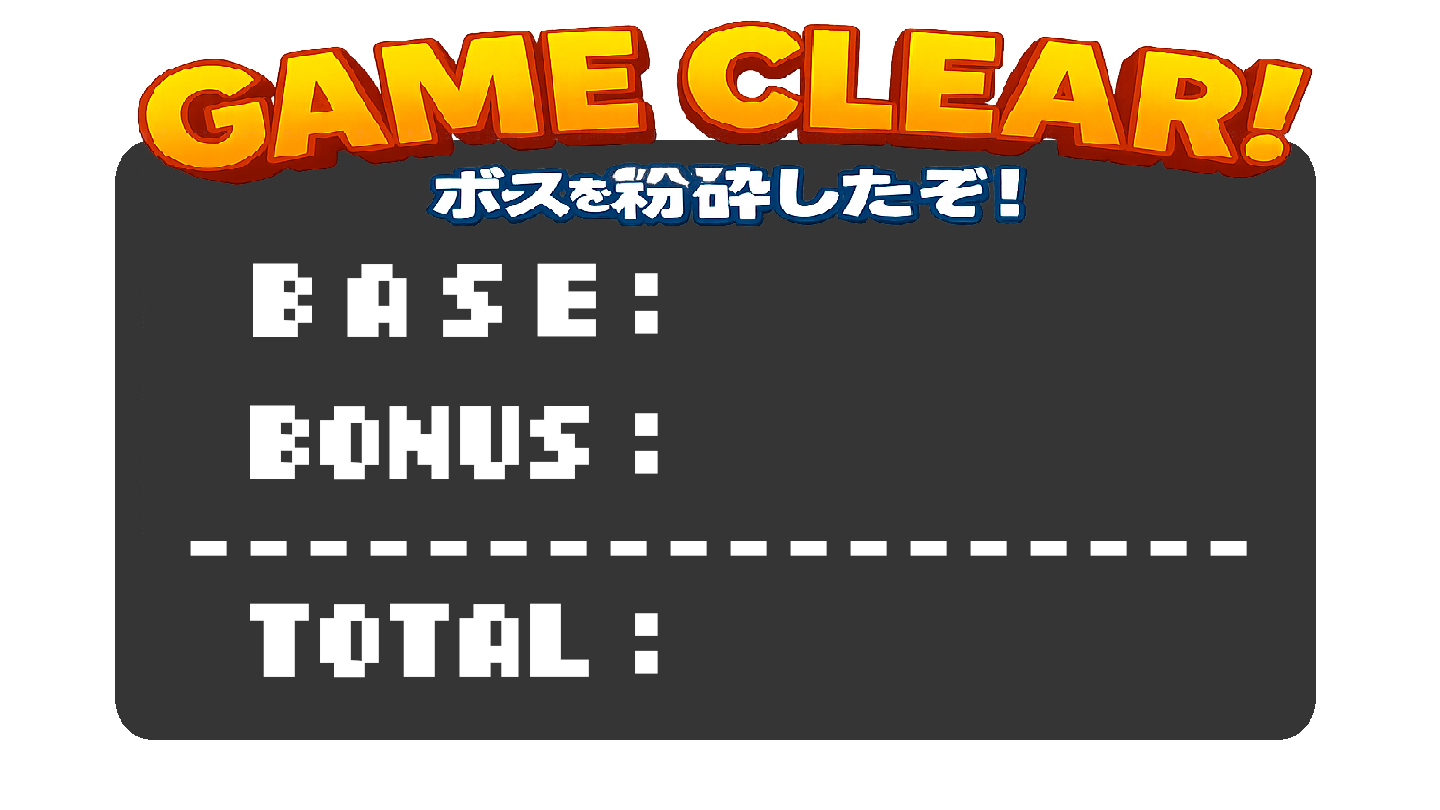
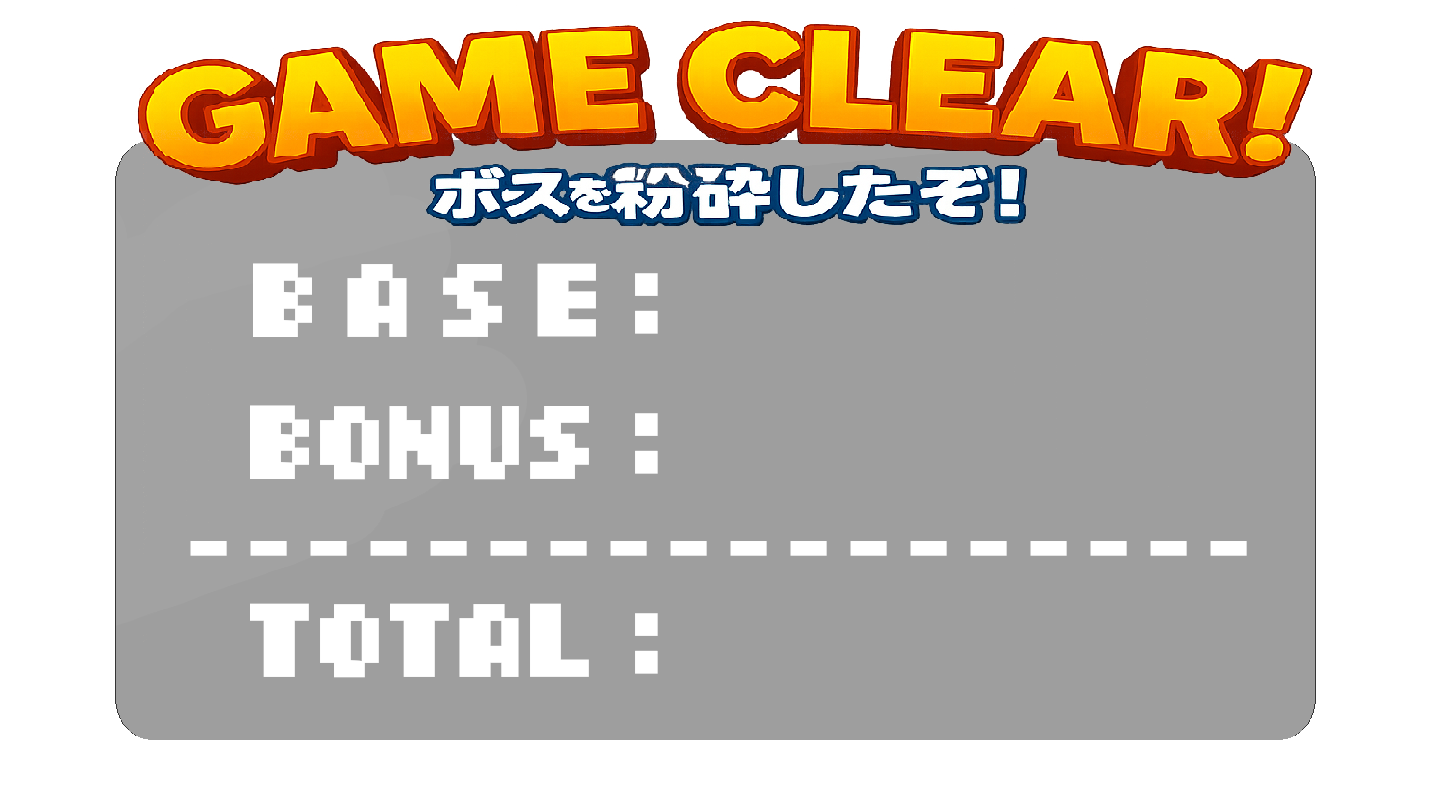
プレイヤーの操作性向上

diff --git a/Project/Src/Object/Charactor/Player/Gouge/PlayerGouge.cpp b/Project/Src/Object/Charactor/Player/Gouge/PlayerGouge.cpp
@@ -46,7 +46,7 @@ void PlayerGouge::SubUpdate(void)
 	case PlayerGouge::STATE::SEARCH:
 		if (searchHit_) { return; }
 		xAngle_ += Utility::Deg2RadF(5.0f);
-		if (xAngle_ > Utility::Deg2RadF(200.0f)) { xAngle_ = Utility::Deg2RadF(200.0f); }
+		if (xAngle_ > Utility::Deg2RadF(100.0f)) { xAngle_ = Utility::Deg2RadF(100.0f); }
 		else {
 			trans_.pos = (playerPos + FOOT_POS) + LOCAL_POS.TransMat(Utility::MatrixAllMultXYZ({ Vector3::Xonly(xAngle_) , playerAngle }));
 		}
@@ -54,7 +54,7 @@ void PlayerGouge::SubUpdate(void)
 	case PlayerGouge::STATE::GOUGE:
 		if(gougeHit_){
 			SetJudge(false);
-			//SetIsDraw(false);
+			SetIsDraw(false);
 			state_ = STATE::NON;
 		}
 		break;

diff --git a/Project/Src/Object/Charactor/Boss/Attack/Fall/Fall.cpp b/Project/Src/Object/Charactor/Boss/Attack/Fall/Fall.cpp
@@ -91,13 +91,13 @@ void Fall::Set(const Vector3& pos)
 	groundHeight_ = 0.0f;
 
 	Vector3 work = trans_.pos;
-	work.y = 500.0f;
+	work.y = 1500.0f;
 
 	float radius = ColliderSerch<SphereCollider>().back()->GetRadius();
 
 	while (work.y > 0.0f) {
 		if (CollisionManager::IsStageCollision(work, radius)) { break; }
 		work.y -= 10.0f;
-		groundHeight_ = work.y - radius;
 	}
+	groundHeight_ = work.y - radius;
 }

diff --git a/Project/Src/Scene/Clear/ClearScene.cpp b/Project/Src/Scene/Clear/ClearScene.cpp
@@ -106,10 +106,6 @@ void ClearScene::Draw(void)
 
 	for (ActorBase*& obj : objects) { obj->Draw(); }
 
-	SetDrawBlendMode(DX_BLENDMODE_ALPHA, 50);
-	DrawBox(0, 0, x, y, 0xffffff, true);
-	SetDrawBlendMode(DX_BLENDMODE_NOBLEND, 0);
-
 	DrawExtendGraph(0, 0, x, y, img_, true);
 
 	for (ActorBase*& obj : objects) { obj->UiDraw(); }

diff --git a/Project/Src/Object/Charactor/Player/Gouge/PlayerGouge.h b/Project/Src/Object/Charactor/Player/Gouge/PlayerGouge.h
@@ -38,7 +38,7 @@ private:
 
 	STATE state_;
 
-	const float STATE_RADIUS[(int)STATE::MAX] = { 10.0f,150.0f };
+	const float STATE_RADIUS[(int)STATE::MAX] = { 10.0f,100.0f };
 
 	float xAngle_;
 
